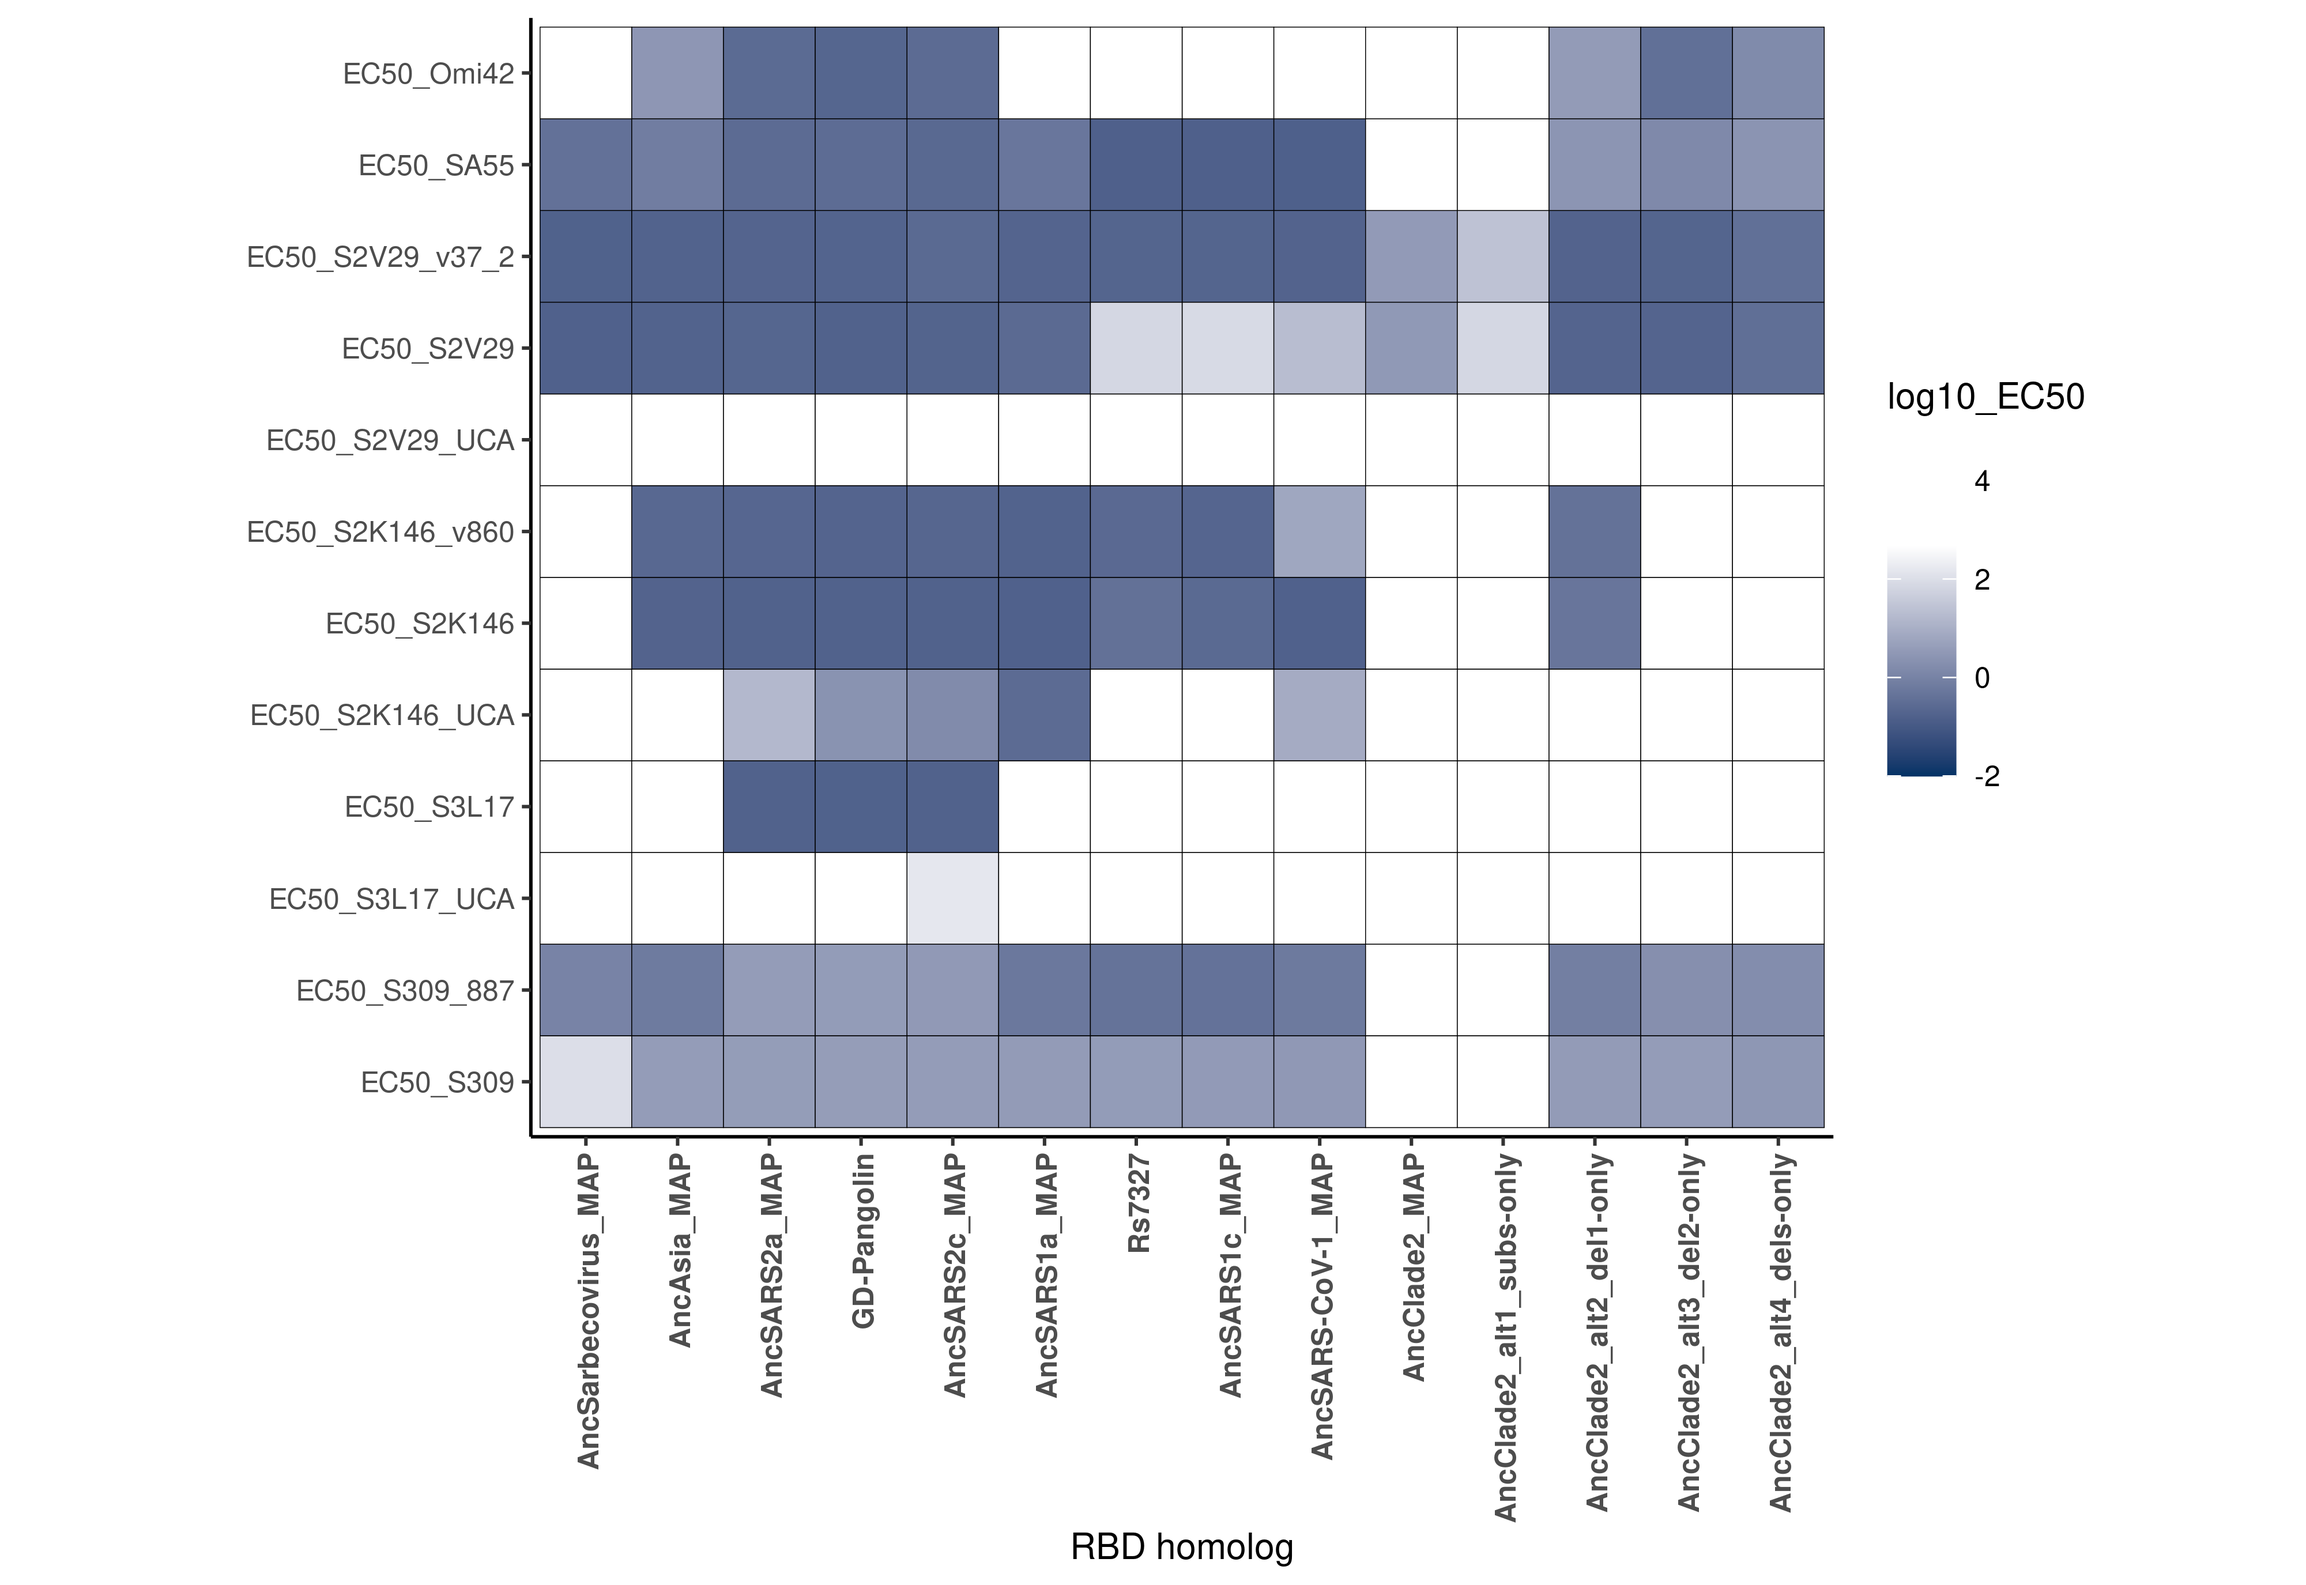
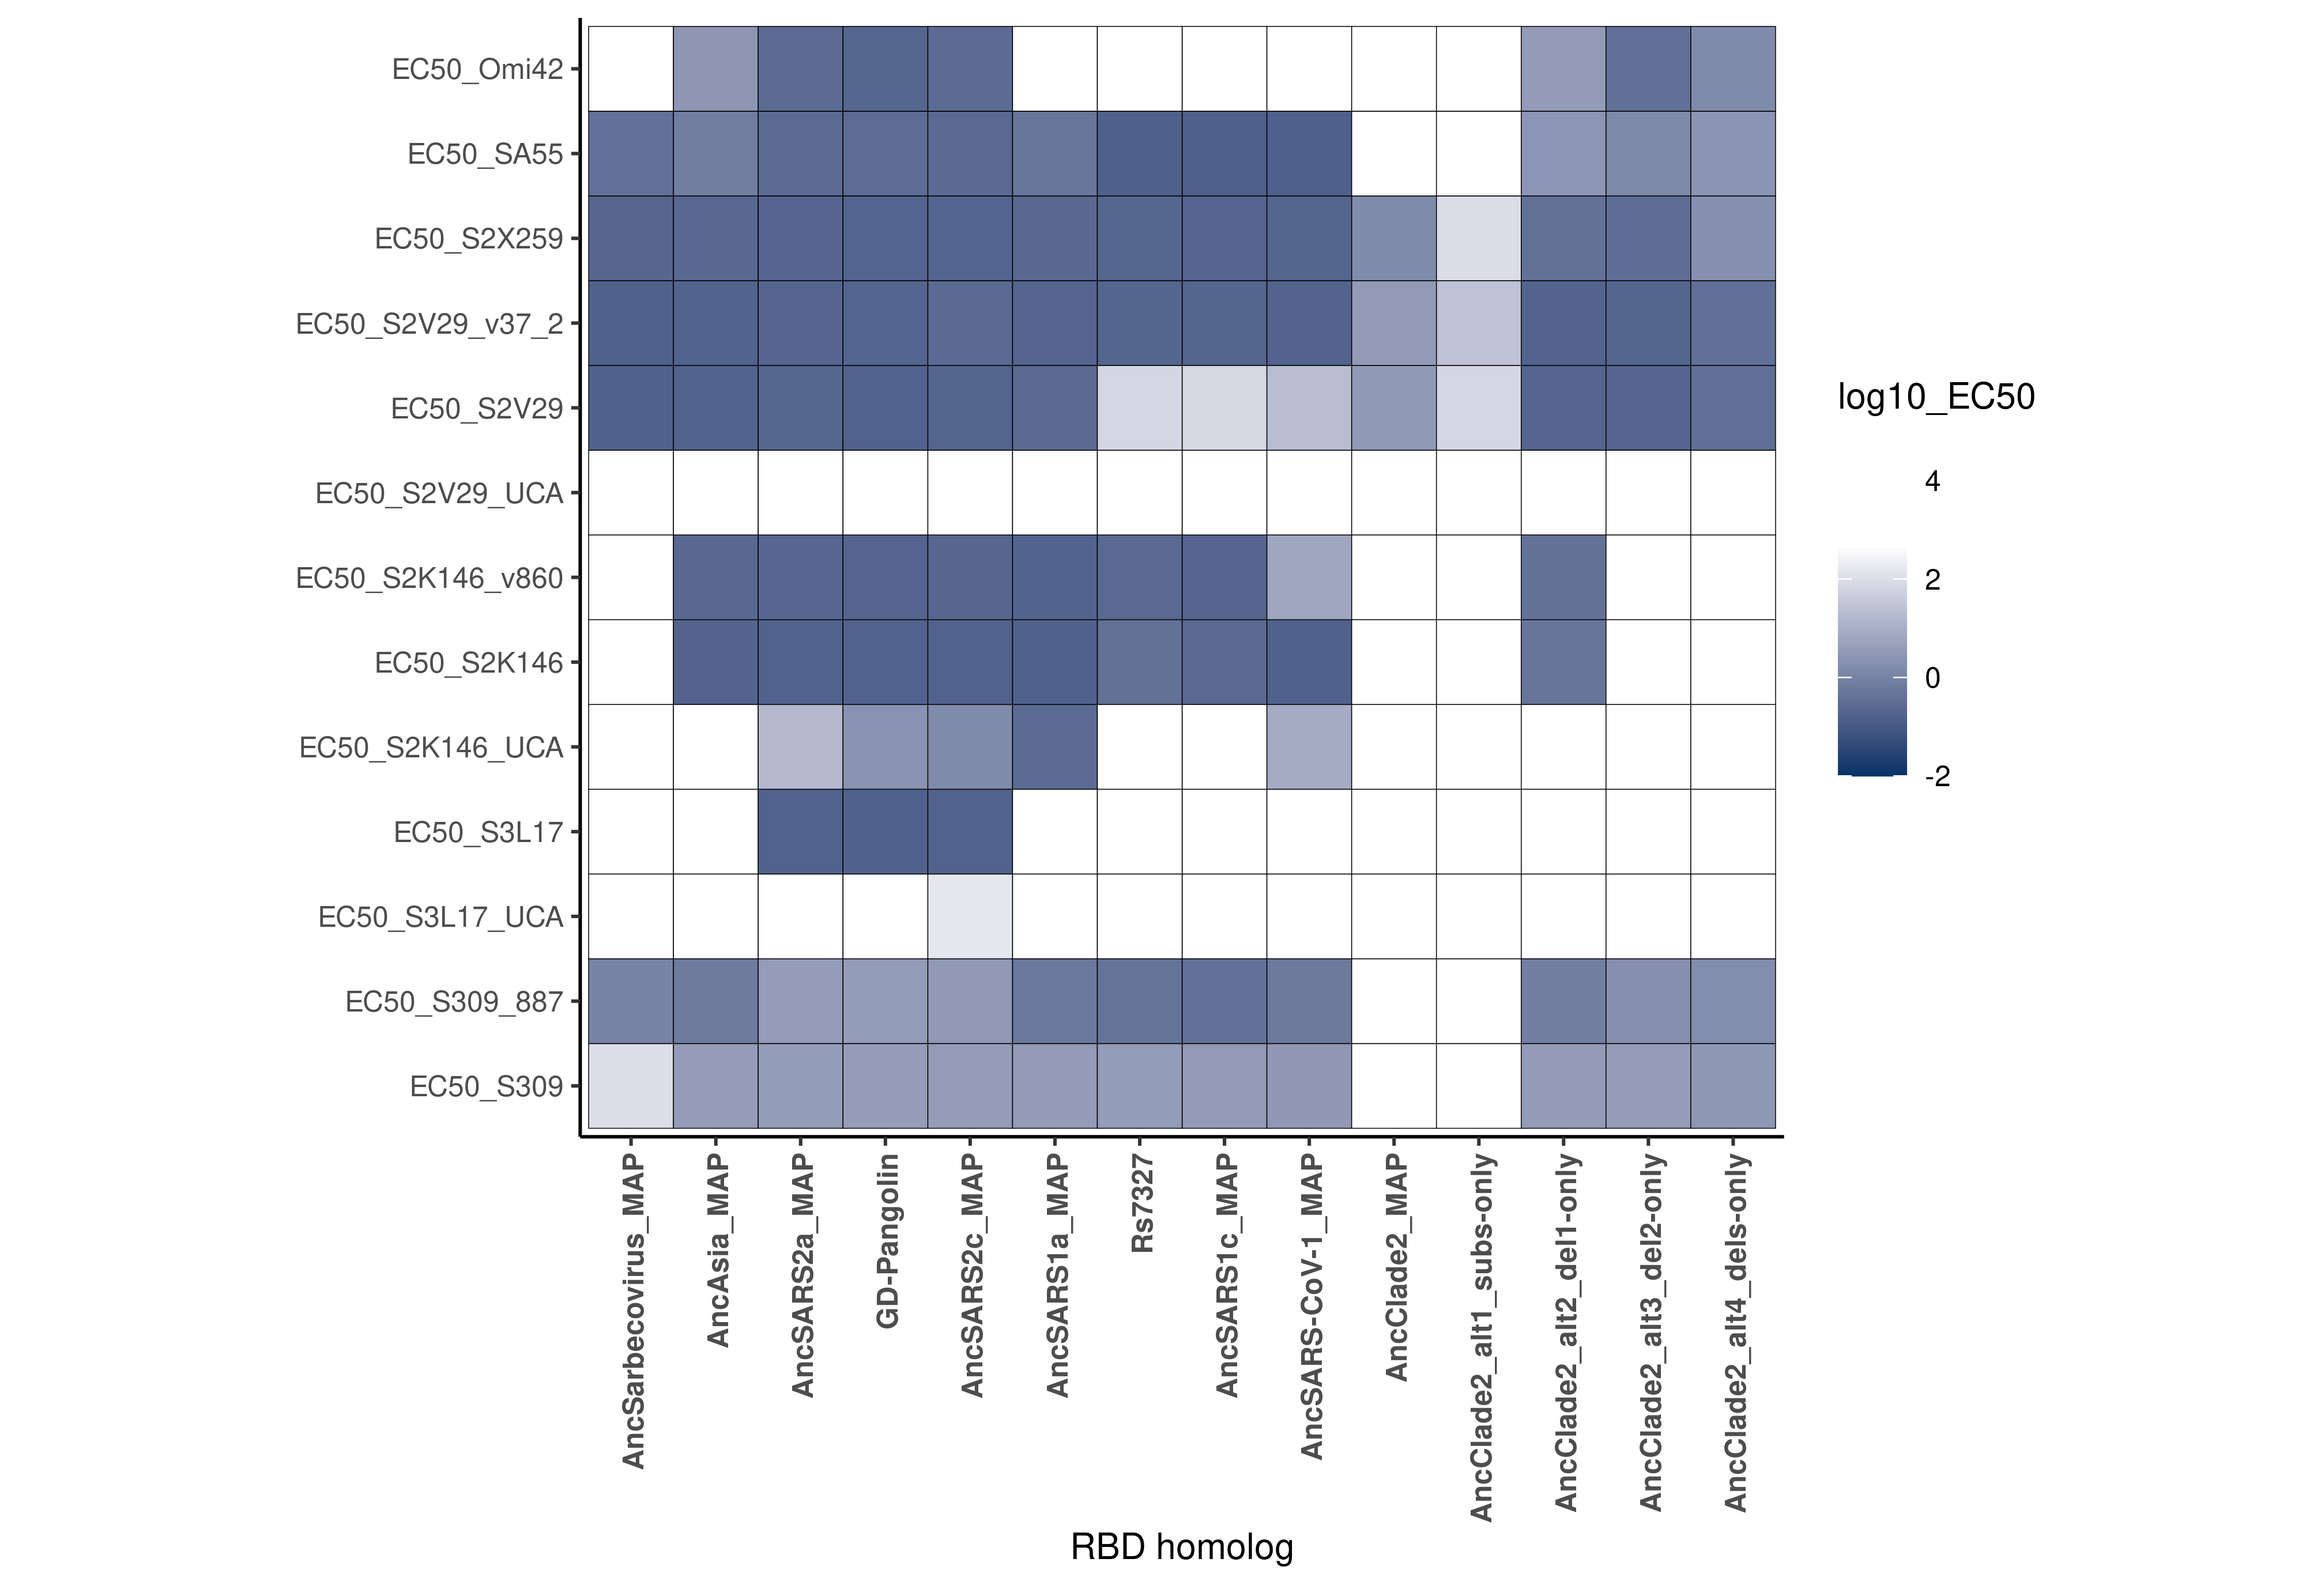
add s2x259 back to final heatmap

Changed region(s): [[0.125, 0.0, 0.9062, 0.9582], [0.7812, 0.34, 0.875, 0.4945]]

diff --git a/results/summary/collapse_barcodes_lib61_SARSr-wts.md b/results/summary/collapse_barcodes_lib61_SARSr-wts.md
@@ -553,9 +553,9 @@ for each mAb.
 
 ``` r
 #make temp long-form data frame
-temp1 <- data.table::melt(dt_final[,.(target, EC50_S309, EC50_S309_887, EC50_S3L17_UCA, EC50_S3L17, EC50_S2K146_UCA,EC50_S2K146,EC50_S2K146_v860,EC50_S2V29_UCA,EC50_S2V29 ,EC50_S2V29_v37_2, EC50_SA55, EC50_Omi42, EC50_S309)],
+temp1 <- data.table::melt(dt_final[,.(target, EC50_S309, EC50_S309_887, EC50_S3L17_UCA, EC50_S3L17, EC50_S2K146_UCA,EC50_S2K146,EC50_S2K146_v860,EC50_S2V29_UCA,EC50_S2V29 ,EC50_S2V29_v37_2, EC50_S2X259, EC50_SA55, EC50_Omi42)],
                           id.vars=c("target"),
-                          measure.vars=c("EC50_S309", "EC50_S309_887", "EC50_S3L17_UCA", "EC50_S3L17", "EC50_S2K146_UCA","EC50_S2K146","EC50_S2K146_v860","EC50_S2V29_UCA","EC50_S2V29", "EC50_S2V29_v37_2", "EC50_SA55", "EC50_Omi42", "EC50_S309"),
+                          measure.vars=c("EC50_S309", "EC50_S309_887", "EC50_S3L17_UCA", "EC50_S3L17", "EC50_S2K146_UCA","EC50_S2K146","EC50_S2K146_v860","EC50_S2V29_UCA","EC50_S2V29", "EC50_S2V29_v37_2", "EC50_S2X259", "EC50_SA55", "EC50_Omi42"),
                           variable.name="mAb",value.name="EC50")
 
 temp1$log10_EC50 <- log10(temp1$EC50)
